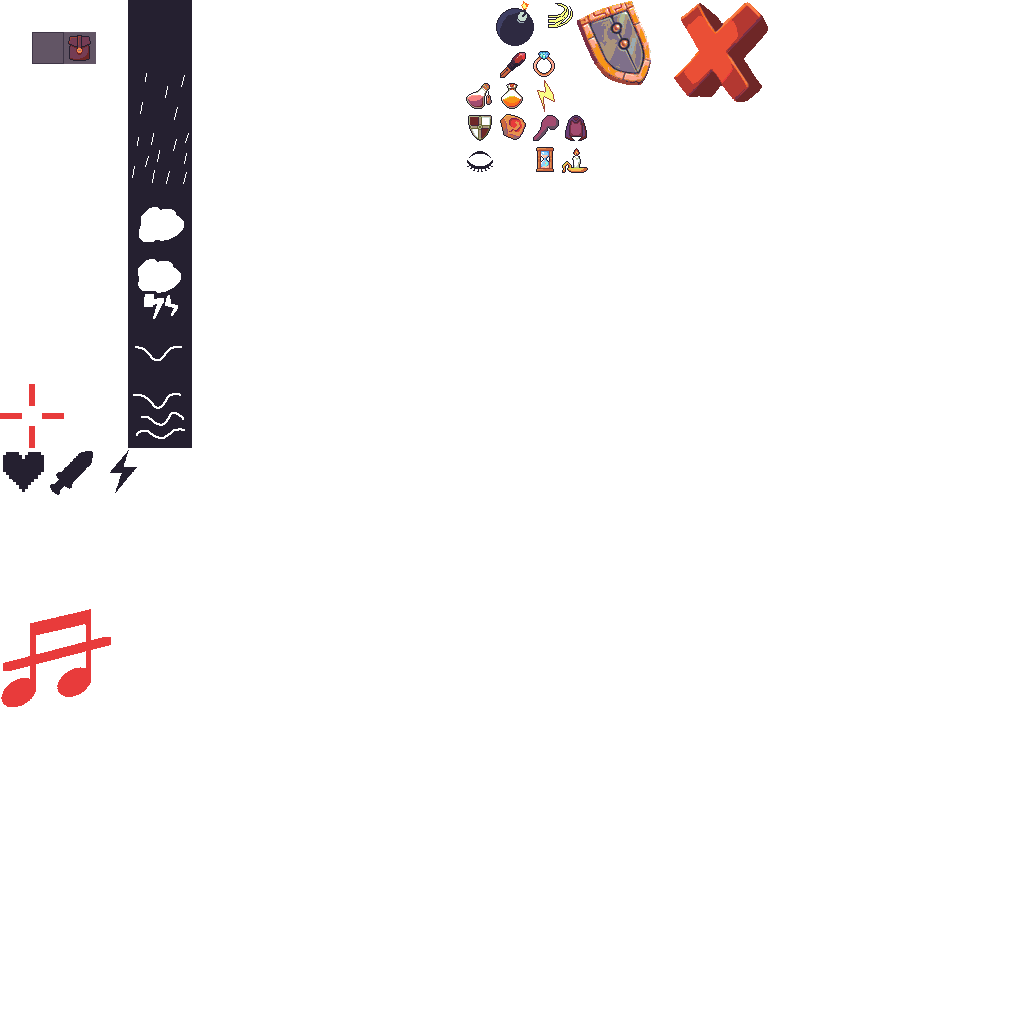
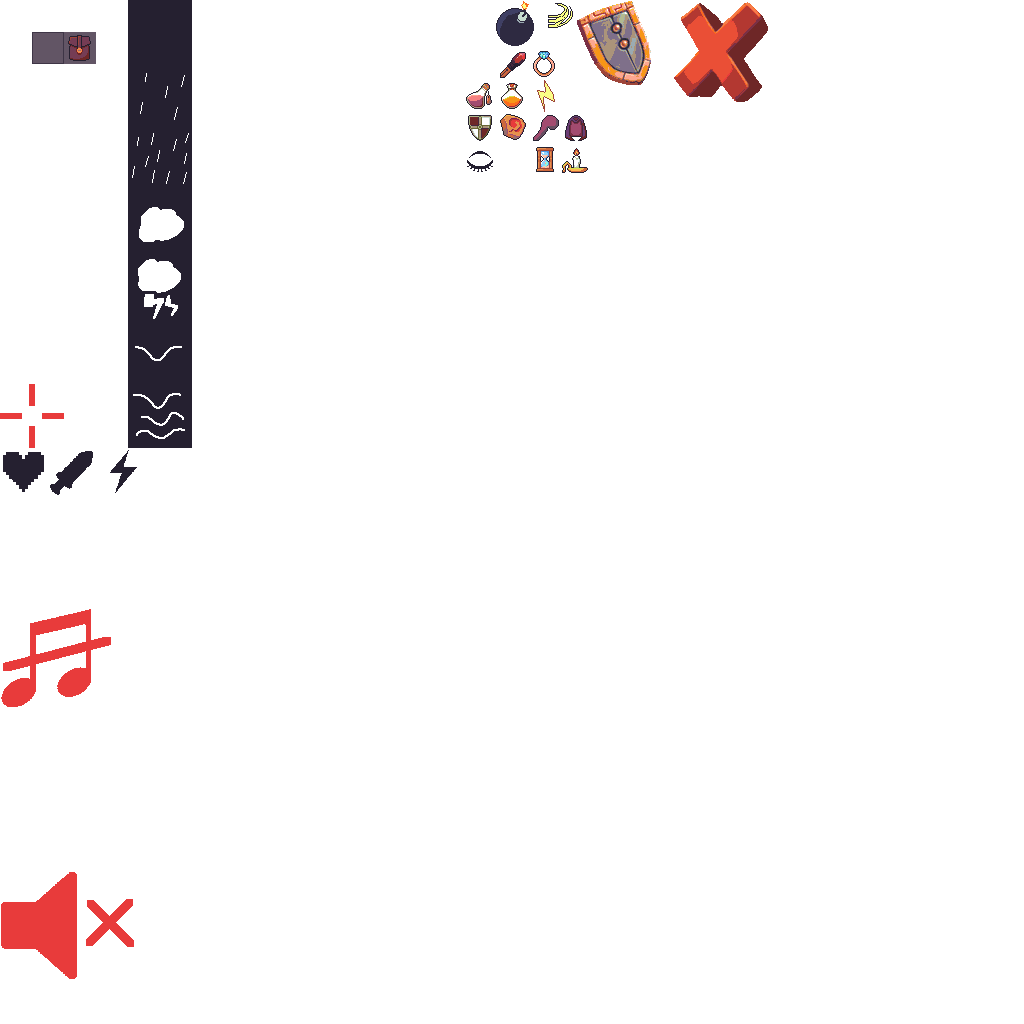
0.8.070

Changed region(s): [[0.0, 0.8438, 0.125, 0.9688]]

diff --git a/gamestream_flutter/lib/atlases/atlas_icons.dart b/gamestream_flutter/lib/atlases/atlas_icons.dart
@@ -19,8 +19,8 @@ class AtlasIcons {
     IconType.Wind_Gentle: 128,
     IconType.Wind_Strong: 128,
     IconType.Inventory: 64,
-    IconType.Sound_Enabled: 192,
-    IconType.Sound_Disabled: 224,
+    IconType.Sound_Enabled: 1,
+    IconType.Sound_Disabled: 1,
     IconType.Plus: 32,
     IconType.Minus: 64,
     IconType.Heart: 193,
@@ -52,6 +52,8 @@ class AtlasIcons {
     IconType.Arrows_South: Size * 4,
     IconType.Arrows_West: Size * 5,
     IconType.Home: 515,
+    IconType.Sound_Enabled: 736,
+    IconType.Sound_Disabled: 872,
     IconType.Fullscreen: 0,
     IconType.Zoom: 0,
     IconType.Slot: Size * 1,
@@ -90,6 +92,8 @@ class AtlasIcons {
 
   static double getSrcWidth(int itemType) => const  <int, double> {
     IconType.Home: 155,
+    IconType.Sound_Enabled: 137,
+    IconType.Sound_Disabled: 137,
     IconType.Primary_Weapon: 31,
     IconType.Secondary_Weapon: 12,
     IconType.Tertiary_Weapon: 16,
@@ -112,6 +116,8 @@ class AtlasIcons {
 
   static double getSrcHeight(int itemType) => const  <int, double> {
     IconType.Home: 155,
+    IconType.Sound_Enabled: 107,
+    IconType.Sound_Disabled: 107,
     IconType.Primary_Weapon: 13,
     IconType.Secondary_Weapon: 10,
     IconType.Tertiary_Weapon: 5,

diff --git a/gamestream_flutter/lib/game_ui.dart b/gamestream_flutter/lib/game_ui.dart
@@ -588,8 +588,11 @@ class GameUI {
       onPressed(
         hint: "toggle sound",
         action: GameAudio.toggleMutedSound,
-        child: watch(GameAudio.mutedSound, (bool t) =>
-            GameUI.buildAtlasIconType(t ? IconType.Sound_Disabled : IconType.Sound_Enabled, scale: Icon_Scale)
+        child: Container(
+          width: 32,
+          child: watch(GameAudio.mutedSound, (bool t) =>
+              GameUI.buildAtlasIconType(t ? IconType.Sound_Disabled : IconType.Sound_Enabled, scale: Icon_Scale)
+          ),
         ),
       );
 

diff --git a/bleed-common/lib/src/version.dart b/bleed-common/lib/src/version.dart
@@ -1,4 +1,4 @@
-const version = '0.8.069';
+const version = '0.8.070';
 
 
 

diff --git a/bleed-server/lib/common/src/version.dart b/bleed-server/lib/common/src/version.dart
@@ -1,4 +1,4 @@
-const version = '0.8.069';
+const version = '0.8.070';
 
 
 
